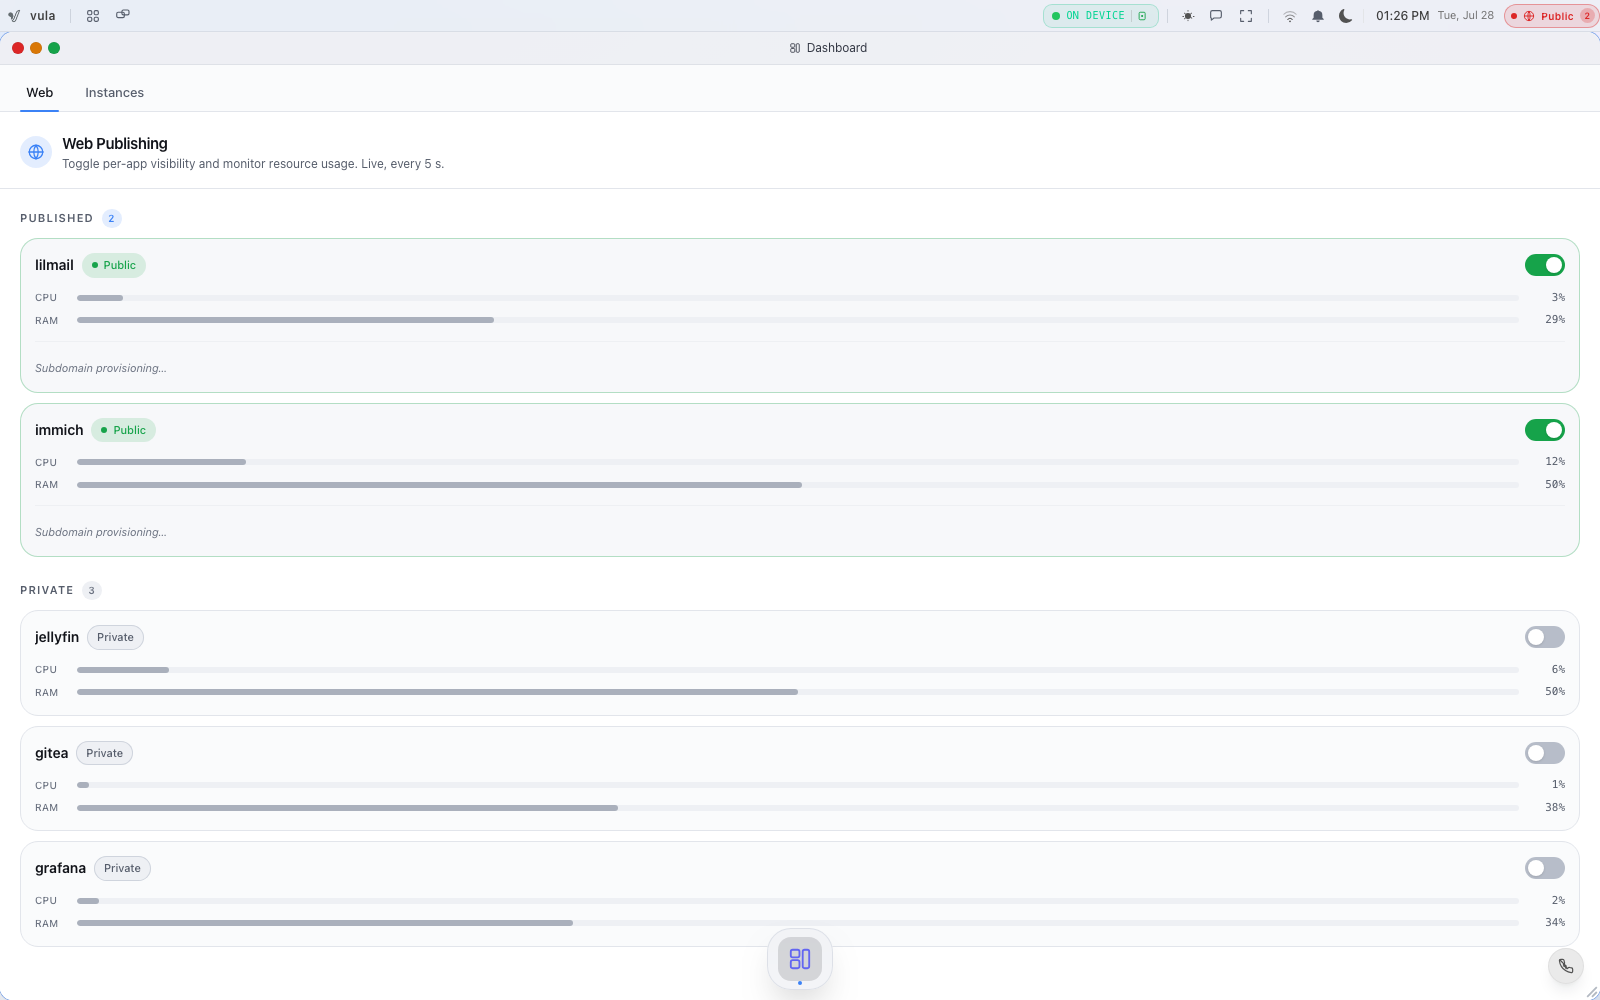
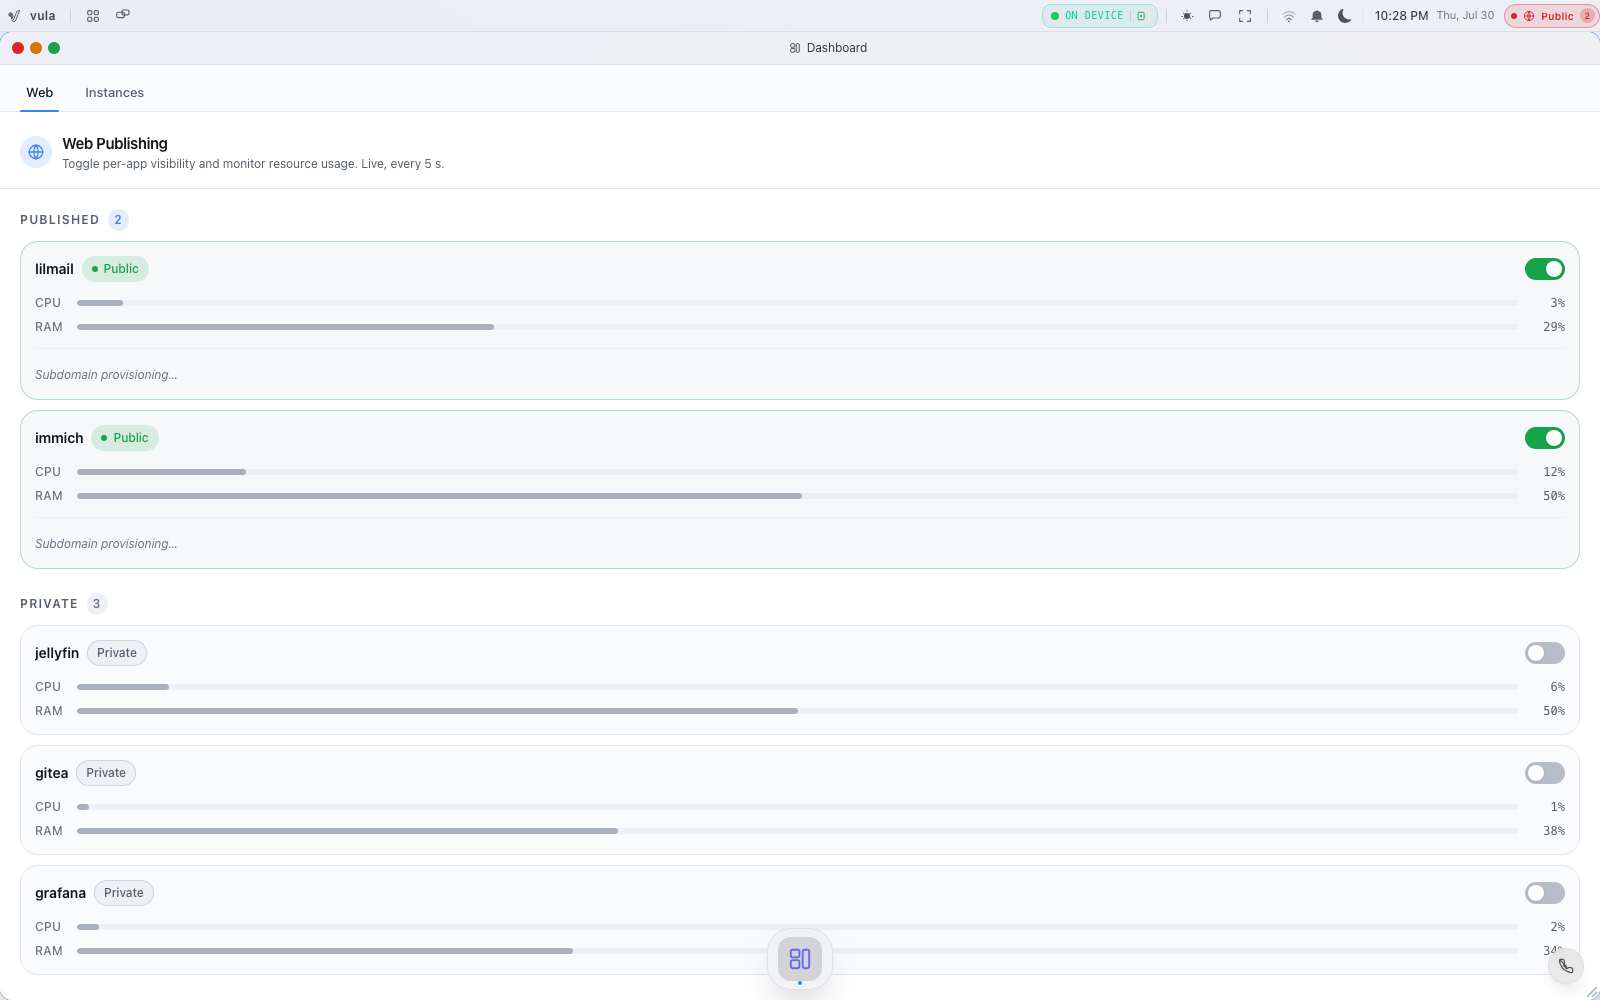
site: raise sub-12px labels to a 12px floor in the dashboards
Third of the core-shell's four surfaces (Settings, FileManager done in the
prior two commits). Raised 28 Tailwind text-[Npx] arbitrary values below
12px across InstancesPanel.jsx and AppPublishCard.jsx: CPU/RAM row labels,
percentages, instance IDs, section-count pills, and error text.

One instance excluded: InstancesPanel.jsx's "N apps" disclosure row wraps a
`▶` triangle glyph at text-[8px] (aria-hidden, rotates on expand) next to
the "N app(s)" label — the row's own text bumped to 12px, the triangle did
not. This is the exact case the prior pass flagged when it deferred the
whole core shell; confirmed by a pixel crop that the triangle is unchanged
before/after while the adjacent label visibly grew.

Verified visually: captured the harness's `dashboard`/`dashboard-light`/
`instances`/`instances-light` shots before/after. All four compared cleanly
— publish toggles, resource bars, online/offline sections and the
Rename/Remove button row all still fit with no overlap or truncation.

471/471 vitest, 60/61 Playwright (1 pre-existing skip), vite build clean.

Agent-generated, machine-verified, NOT human-reviewed.

diff --git a/src/builtin/dashboard/InstancesPanel.jsx b/src/builtin/dashboard/InstancesPanel.jsx
@@ -116,11 +116,11 @@ function ResourceMiniBar({ label, pct }) {
   const color = clamp > 80 ? 'bg-[var(--status-warning)]' : clamp > 60 ? 'accent-bg' : 'bg-[var(--text-ghost)]'
   return (
     <div className="flex items-center gap-2 min-w-0">
-      <span className="text-[10px] uppercase tracking-wide text-[var(--text-muted)] w-7 shrink-0 font-medium">{label}</span>
+      <span className="text-[12px] uppercase tracking-wide text-[var(--text-muted)] w-7 shrink-0 font-medium">{label}</span>
       <div className="flex-1 h-1.5 rounded-full bg-[var(--bg-elevated)] overflow-hidden">
         <div className={`h-full rounded-full transition-[width] duration-500 ${color}`} style={{ width: `${clamp}%` }} />
       </div>
-      <span className="text-[11px] text-[var(--text-tertiary)] w-8 text-right shrink-0 mono tabular-nums">{Math.round(clamp)}%</span>
+      <span className="text-[12px] text-[var(--text-tertiary)] w-8 text-right shrink-0 mono tabular-nums">{Math.round(clamp)}%</span>
     </div>
   )
 }
@@ -163,7 +163,7 @@ function RenameModal({ instance, onSave, onCancel }) {
           className="input"
           placeholder="Instance name"
         />
-        {error && <p className="mt-2 text-[11px] text-danger">{error}</p>}
+        {error && <p className="mt-2 text-[12px] text-danger">{error}</p>}
         <div className="flex gap-2 mt-4 justify-end">
           <button onClick={onCancel} className="btn-secondary text-xs px-3 py-1.5">Cancel</button>
           <button onClick={handleSave} disabled={!name.trim() || saving} className="btn-primary text-xs px-3 py-1.5 active:scale-[0.97]">
@@ -205,7 +205,7 @@ function RemoveConfirmModal({ instance, onConfirm, onCancel }) {
           Remove <span className="text-[var(--text-primary)] font-medium">{instance.display_name || truncateId(instance.id)}</span> from your account?
           This cannot be undone.
         </p>
-        {error && <p className="text-[11px] text-danger mb-3">{error}</p>}
+        {error && <p className="text-[12px] text-danger mb-3">{error}</p>}
         <div className="flex gap-2 justify-end">
           <button onClick={onCancel} className="btn-secondary text-xs px-3 py-1.5">Cancel</button>
           <button
@@ -269,9 +269,9 @@ function InstanceCard({ instance, apps, onRename, onRemove, onStoreOnlyChanged }
                 </span>
               </div>
               <div className="flex items-center gap-2 mt-0.5">
-                <span className="text-[11px] text-[var(--text-muted)]">{typeLabel}</span>
+                <span className="text-[12px] text-[var(--text-muted)]">{typeLabel}</span>
                 <span aria-hidden="true" className="w-0.5 h-0.5 rounded-full bg-[var(--text-ghost)]" />
-                <span className="text-[11px] text-[var(--text-muted)]">
+                <span className="text-[12px] text-[var(--text-muted)]">
                   {instance.online ? 'Active now' : `Last seen ${formatLastSeen(instance.last_seen)}`}
                 </span>
               </div>
@@ -289,7 +289,7 @@ function InstanceCard({ instance, apps, onRename, onRemove, onStoreOnlyChanged }
         </div>
 
         {/* ULID */}
-        <div className="mt-2 text-[10px] mono text-[var(--text-ghost)]">{truncateId(instance.id)}</div>
+        <div className="mt-2 text-[12px] mono text-[var(--text-ghost)]">{truncateId(instance.id)}</div>
 
         {/* Resource bars — only when online */}
         {instance.online && (instance.cpu_pct != null || instance.ram_pct != null) && (
@@ -303,7 +303,7 @@ function InstanceCard({ instance, apps, onRename, onRemove, onStoreOnlyChanged }
         {instanceApps.length > 0 && (
           <button
             onClick={() => setExpanded(v => !v)}
-            className="mt-2.5 text-[11px] text-[var(--text-tertiary)] hover:text-[var(--text-secondary)] flex items-center gap-1.5 transition-colors"
+            className="mt-2.5 text-[12px] text-[var(--text-tertiary)] hover:text-[var(--text-secondary)] flex items-center gap-1.5 transition-colors"
           >
             <span aria-hidden="true" className={`transition-transform text-[8px] ${expanded ? 'rotate-90' : ''}`}>▶</span>
             {instanceApps.length} app{instanceApps.length !== 1 ? 's' : ''}
@@ -322,7 +322,7 @@ function InstanceCard({ instance, apps, onRename, onRemove, onStoreOnlyChanged }
                   href={`https://${app.fqdn}`}
                   target="_blank"
                   rel="noopener noreferrer"
-                  className="shrink-0 text-[11px] px-2 py-0.5 rounded-md bg-[var(--bg-elevated)] hover:bg-[var(--bg-hover)] accent-text transition-colors focus-primary"
+                  className="shrink-0 text-[12px] px-2 py-0.5 rounded-md bg-[var(--bg-elevated)] hover:bg-[var(--bg-hover)] accent-text transition-colors focus-primary"
                   title={`Open ${app.app_id} on this instance`}
                 >
                   Open ↗
@@ -338,7 +338,7 @@ function InstanceCard({ instance, apps, onRename, onRemove, onStoreOnlyChanged }
       <div className="px-3.5 pb-3.5 flex flex-wrap items-center gap-2">
         <button
           onClick={onRename}
-          className="text-[11px] px-2.5 py-1.5 rounded-lg bg-[var(--bg-elevated)] hover:bg-[var(--bg-hover)] text-[var(--text-tertiary)] hover:text-[var(--text-primary)] transition-colors focus-primary"
+          className="text-[12px] px-2.5 py-1.5 rounded-lg bg-[var(--bg-elevated)] hover:bg-[var(--bg-hover)] text-[var(--text-tertiary)] hover:text-[var(--text-primary)] transition-colors focus-primary"
         >
           Rename
         </button>
@@ -352,19 +352,19 @@ function InstanceCard({ instance, apps, onRename, onRemove, onStoreOnlyChanged }
           title={instance.store_only
             ? 'Currently sync-only. Make this device serve app traffic to the cluster.'
             : 'Currently serving. Make this device sync data only — never a route target.'}
-          className="text-[11px] px-2.5 py-1.5 rounded-lg bg-[var(--bg-elevated)] hover:bg-[var(--bg-hover)] text-[var(--text-tertiary)] hover:text-[var(--text-primary)] transition-colors focus-primary disabled:opacity-40"
+          className="text-[12px] px-2.5 py-1.5 rounded-lg bg-[var(--bg-elevated)] hover:bg-[var(--bg-hover)] text-[var(--text-tertiary)] hover:text-[var(--text-primary)] transition-colors focus-primary disabled:opacity-40"
         >
           {toggling ? 'Updating…' : instance.store_only ? 'Make serving' : 'Make sync-only'}
         </button>
         {!instance.is_owner && (
           <button
             onClick={onRemove}
-            className="text-[11px] px-2.5 py-1.5 rounded-lg bg-[var(--bg-elevated)] hover:bg-danger-soft text-[var(--text-muted)] hover:text-danger transition-colors focus-primary"
+            className="text-[12px] px-2.5 py-1.5 rounded-lg bg-[var(--bg-elevated)] hover:bg-danger-soft text-[var(--text-muted)] hover:text-danger transition-colors focus-primary"
           >
             Remove
           </button>
         )}
-        {toggleErr && <span role="alert" className="text-[11px] text-danger w-full">{toggleErr}</span>}
+        {toggleErr && <span role="alert" className="text-[12px] text-danger w-full">{toggleErr}</span>}
       </div>
     </div>
   )
@@ -508,9 +508,9 @@ export default function InstancesPanel() {
         {/* Online instances */}
         {instances !== null && online.length > 0 && (
           <section>
-            <h3 className="flex items-center gap-2 text-[11px] font-semibold text-[var(--text-tertiary)] uppercase tracking-[0.1em] mb-2.5">
+            <h3 className="flex items-center gap-2 text-[12px] font-semibold text-[var(--text-tertiary)] uppercase tracking-[0.1em] mb-2.5">
               Online
-              <span className="accent-bg-soft accent-text rounded-full px-1.5 py-0.5 text-[10px] tabular-nums">{online.length}</span>
+              <span className="accent-bg-soft accent-text rounded-full px-1.5 py-0.5 text-[12px] tabular-nums">{online.length}</span>
             </h3>
             <div className="space-y-2.5">
               {online.map(inst => (
@@ -530,9 +530,9 @@ export default function InstancesPanel() {
         {/* Offline instances */}
         {instances !== null && offline.length > 0 && (
           <section>
-            <h3 className="flex items-center gap-2 text-[11px] font-semibold text-[var(--text-tertiary)] uppercase tracking-[0.1em] mb-2.5">
+            <h3 className="flex items-center gap-2 text-[12px] font-semibold text-[var(--text-tertiary)] uppercase tracking-[0.1em] mb-2.5">
               Offline
-              <span className="bg-[var(--bg-elevated)] text-[var(--text-muted)] rounded-full px-1.5 py-0.5 text-[10px] tabular-nums">{offline.length}</span>
+              <span className="bg-[var(--bg-elevated)] text-[var(--text-muted)] rounded-full px-1.5 py-0.5 text-[12px] tabular-nums">{offline.length}</span>
             </h3>
             <div className="space-y-2.5">
               {offline.map(inst => (

diff --git a/src/builtin/dashboard/AppPublishCard.jsx b/src/builtin/dashboard/AppPublishCard.jsx
@@ -56,14 +56,14 @@ function ResourceBar({ label, pct, warn }) {
 
   return (
     <div className="flex items-center gap-2.5 min-w-0">
-      <span className="text-[10px] uppercase tracking-wide text-[var(--text-muted)] w-8 shrink-0 font-medium">{label}</span>
+      <span className="text-[12px] uppercase tracking-wide text-[var(--text-muted)] w-8 shrink-0 font-medium">{label}</span>
       <div className="flex-1 h-1.5 rounded-full bg-[var(--bg-elevated)] overflow-hidden">
         <div
           className={`h-full rounded-full transition-[width] duration-500 ${barColor}`}
           style={{ width: `${clamp}%` }}
         />
       </div>
-      <span className={`text-[11px] w-9 text-right shrink-0 mono tabular-nums ${warn ? 'text-[var(--status-warning)]' : 'text-[var(--text-tertiary)]'}`}>
+      <span className={`text-[12px] w-9 text-right shrink-0 mono tabular-nums ${warn ? 'text-[var(--status-warning)]' : 'text-[var(--text-tertiary)]'}`}>
         {Math.round(clamp)}%
       </span>
     </div>
@@ -180,17 +180,17 @@ function AppCard({ app, cgroupInfo, onToggle }) {
       {isPublic && (
         <div className="mt-3 pt-3 border-t border-[var(--border-subtle)] space-y-1.5">
           {loadingDeploy && (
-            <span className="text-[11px] text-[var(--text-muted)]">Loading URL…</span>
+            <span className="text-[12px] text-[var(--text-muted)]">Loading URL…</span>
           )}
           {!loadingDeploy && deployment?.fqdn && (
             <div className="flex items-center gap-1.5">
-              <span className="text-[11px] text-[var(--text-secondary)] truncate flex-1 mono">
+              <span className="text-[12px] text-[var(--text-secondary)] truncate flex-1 mono">
                 {deployment.fqdn}
               </span>
               <button
                 onClick={handleCopy}
                 title="Copy link"
-                className="shrink-0 text-[11px] px-2 py-1 rounded-md bg-[var(--bg-elevated)] hover:bg-[var(--bg-hover)] text-[var(--text-tertiary)] hover:text-[var(--text-primary)] transition-colors"
+                className="shrink-0 text-[12px] px-2 py-1 rounded-md bg-[var(--bg-elevated)] hover:bg-[var(--bg-hover)] text-[var(--text-tertiary)] hover:text-[var(--text-primary)] transition-colors"
               >
                 {copied ? 'Copied' : 'Copy'}
               </button>
@@ -198,14 +198,14 @@ function AppCard({ app, cgroupInfo, onToggle }) {
                 onClick={handlePurge}
                 disabled={purging}
                 title="Purge cache"
-                className="shrink-0 text-[11px] px-2 py-1 rounded-md bg-[var(--bg-elevated)] hover:bg-[var(--bg-hover)] text-[var(--text-tertiary)] hover:text-[var(--text-primary)] transition-colors disabled:opacity-40"
+                className="shrink-0 text-[12px] px-2 py-1 rounded-md bg-[var(--bg-elevated)] hover:bg-[var(--bg-hover)] text-[var(--text-tertiary)] hover:text-[var(--text-primary)] transition-colors disabled:opacity-40"
               >
                 {purging ? '…' : 'Purge'}
               </button>
             </div>
           )}
           {!loadingDeploy && !deployment?.fqdn && (
-            <span className="text-[11px] text-[var(--text-muted)] italic">Subdomain provisioning…</span>
+            <span className="text-[12px] text-[var(--text-muted)] italic">Subdomain provisioning…</span>
           )}
         </div>
       )}
@@ -289,9 +289,9 @@ export default function AppPublishCard() {
         {/* Published apps */}
         {apps !== null && publicApps.length > 0 && (
           <section>
-            <h3 className="flex items-center gap-2 text-[11px] font-semibold text-[var(--text-tertiary)] uppercase tracking-[0.1em] mb-2.5">
+            <h3 className="flex items-center gap-2 text-[12px] font-semibold text-[var(--text-tertiary)] uppercase tracking-[0.1em] mb-2.5">
               Published
-              <span className="accent-bg-soft accent-text rounded-full px-1.5 py-0.5 text-[10px] tabular-nums">{publicApps.length}</span>
+              <span className="accent-bg-soft accent-text rounded-full px-1.5 py-0.5 text-[12px] tabular-nums">{publicApps.length}</span>
             </h3>
             <div className="space-y-2.5">
               {publicApps.map(app => (
@@ -304,9 +304,9 @@ export default function AppPublishCard() {
         {/* Private apps */}
         {apps !== null && privateApps.length > 0 && (
           <section>
-            <h3 className="flex items-center gap-2 text-[11px] font-semibold text-[var(--text-tertiary)] uppercase tracking-[0.1em] mb-2.5">
+            <h3 className="flex items-center gap-2 text-[12px] font-semibold text-[var(--text-tertiary)] uppercase tracking-[0.1em] mb-2.5">
               Private
-              <span className="bg-[var(--bg-elevated)] text-[var(--text-muted)] rounded-full px-1.5 py-0.5 text-[10px] tabular-nums">{privateApps.length}</span>
+              <span className="bg-[var(--bg-elevated)] text-[var(--text-muted)] rounded-full px-1.5 py-0.5 text-[12px] tabular-nums">{privateApps.length}</span>
             </h3>
             <div className="space-y-2.5">
               {privateApps.map(app => (
